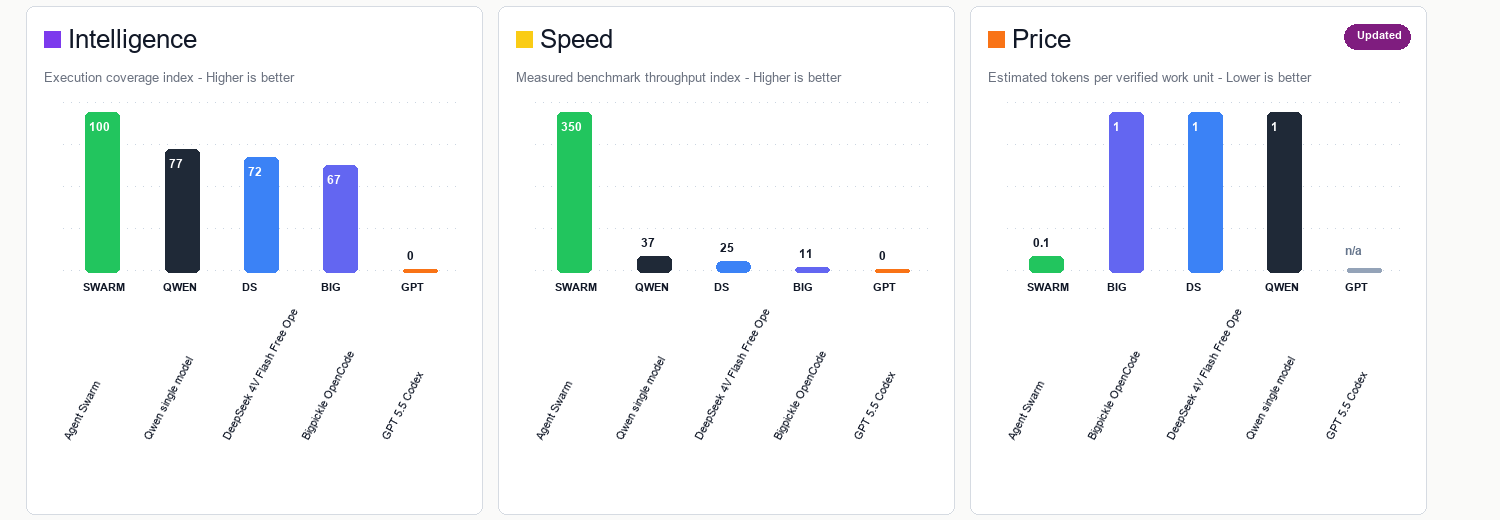
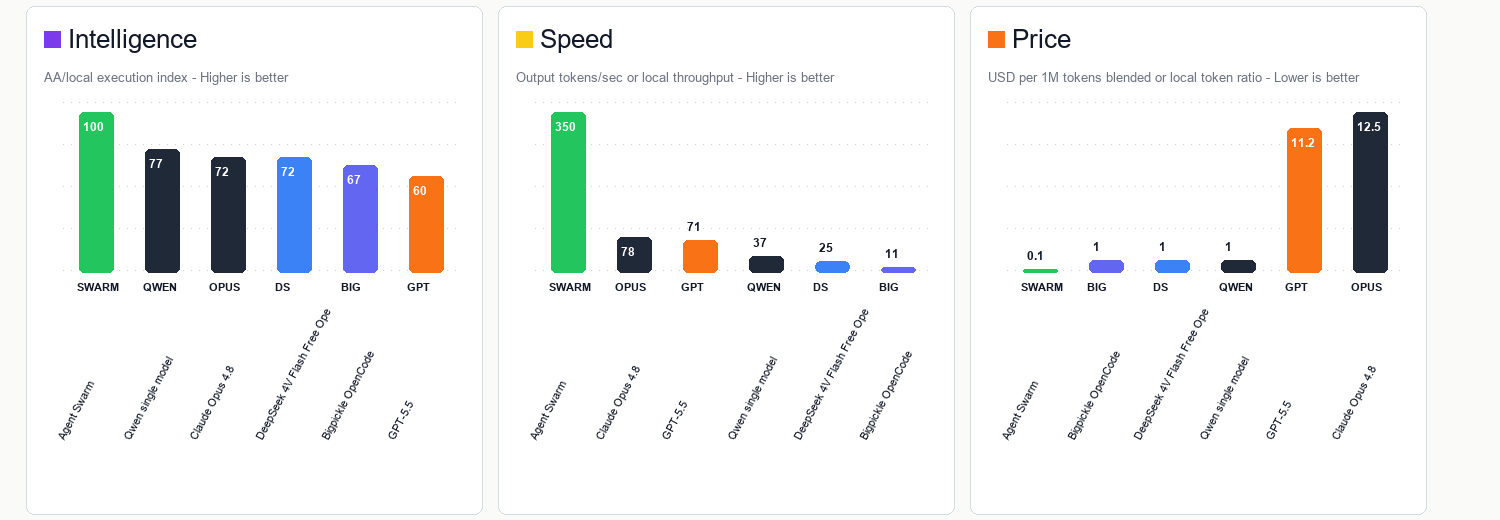
Refresh benchmark comparison charts

diff --git a/scripts/run_aggressive_cli_benchmark.py b/scripts/run_aggressive_cli_benchmark.py
@@ -36,6 +36,31 @@ from swarm.providers.base import Message
 from swarm.providers.factory import ProviderFactory
 
 
+PUBLIC_BENCHMARK_POINTS = [
+    {
+        "name": "Claude Opus 4.8",
+        "short": "OPUS",
+        "color": (31, 41, 55),
+        "intelligence": 72.0,
+        "speed": 78.5,
+        "price": 12.5,
+        "swe_bench_pro": 69.2,
+        "terminal_bench": 74.6,
+        "coding": 71.9,
+    },
+    {
+        "name": "GPT-5.5",
+        "short": "GPT",
+        "color": (249, 115, 22),
+        "intelligence": 60.2,
+        "speed": 70.8,
+        "price": 11.25,
+        "swe_bench_pro": 58.6,
+        "terminal_bench": 83.4,
+        "coding": 71.0,
+    },
+]
+
 COMPLEX_WORK_PROMPT = (
     "Complex benchmark work: design a secure multi-agent job finder and applier that scrapes listings, "
     "uses temporary vision for screenshots, routes coding/security/browser agents to the best providers, "
@@ -1018,10 +1043,12 @@ def render_benchmark_charts(report: dict, output_dir: Path) -> dict:
         "swarm_vs_single": output_dir / "benchmark_swarm_vs_single.png",
         "requested_models": output_dir / "benchmark_requested_models.png",
         "cli_matrix": output_dir / "benchmark_cli_matrix.png",
+        "coding_models": output_dir / "benchmark_coding_models.png",
     }
     render_swarm_vs_single_chart(report, charts["swarm_vs_single"])
     render_requested_models_chart(report, charts["requested_models"])
     render_cli_matrix_chart(report, charts["cli_matrix"])
+    render_coding_models_chart(report, charts["coding_models"])
     return {key: str(path) for key, path in charts.items()}
 
 
@@ -1060,12 +1087,12 @@ def render_swarm_vs_single_chart(report: dict, path: Path) -> None:
     draw = ImageDraw.Draw(image)
     points = build_comparison_card_points(report)
     cards = [
-        ((26, 6, 482, 514), "Intelligence", "Execution coverage index - Higher is better", "intelligence", True, (124, 58, 237)),
-        ((498, 6, 954, 514), "Speed", "Measured benchmark throughput index - Higher is better", "speed", True, (250, 204, 21)),
-        ((970, 6, 1426, 514), "Price", "Estimated tokens per verified work unit - Lower is better", "price", False, (249, 115, 22)),
+        ((26, 6, 482, 514), "Intelligence", "AA/local execution index - Higher is better", "intelligence", True, (124, 58, 237)),
+        ((498, 6, 954, 514), "Speed", "Output tokens/sec or local throughput - Higher is better", "speed", True, (250, 204, 21)),
+        ((970, 6, 1426, 514), "Price", "USD per 1M tokens blended or local token ratio - Lower is better", "price", False, (249, 115, 22)),
     ]
-    for idx, (box, title, subtitle, metric, higher_better, accent) in enumerate(cards):
-        draw_metric_card(image, draw, box, title, subtitle, metric, points, higher_better, accent, updated=(idx == 2))
+    for box, title, subtitle, metric, higher_better, accent in cards:
+        draw_metric_card(image, draw, box, title, subtitle, metric, points, higher_better, accent)
     image.save(path)
 
 
@@ -1088,8 +1115,10 @@ def build_comparison_card_points(report: dict) -> list[dict]:
             "intelligence": int(comparison.get("swarm_execution_coverage_score") or swarm.get("score") or 100),
             "speed": int(min(350, round(work_units / swarm_elapsed))),
             "price": max(0.1, swarm_price),
+            "coding": int(comparison.get("swarm_execution_coverage_score") or swarm.get("score") or 100),
         }
     ]
+    points.extend(PUBLIC_BENCHMARK_POINTS)
 
     palette = [
         (99, 102, 241),
@@ -1107,7 +1136,11 @@ def build_comparison_card_points(report: dict) -> list[dict]:
         speed = int(round((chars / 4) / elapsed)) if elapsed > 0 and chars > 0 and single.get("ok") else 0
         price = 1.0 if single.get("ok") else None
         name = case.get("display_name", case.get("case_id", "single"))
-        if "GPT 5.5" in name and not single.get("ok"):
+        if "GPT 5.5" in name:
+            continue
+        if "Claude Opus 4.8" in name:
+            continue
+        if not single.get("ok"):
             price = None
         points.append(
             {
@@ -1117,6 +1150,7 @@ def build_comparison_card_points(report: dict) -> list[dict]:
                 "intelligence": score,
                 "speed": speed,
                 "price": price,
+                "coding": score,
             }
         )
     return points
@@ -1150,16 +1184,12 @@ def draw_metric_card(
     points: list[dict],
     higher_better: bool,
     accent: tuple[int, int, int],
-    updated: bool = False,
 ) -> None:
     left, top, right, bottom = box
     draw.rounded_rectangle(box, radius=8, fill=(255, 255, 255), outline=(214, 219, 226), width=1)
     draw.rectangle((left + 18, top + 25, left + 34, top + 41), fill=accent)
     draw.text((left + 42, top + 18), title, fill=(17, 24, 39), font=chart_font(26))
     draw.text((left + 18, top + 64), subtitle, fill=(107, 114, 128), font=chart_font(13))
-    if updated:
-        draw.rounded_rectangle((right - 82, top + 18, right - 16, top + 43), radius=12, fill=(127, 29, 127))
-        draw.text((right - 69, top + 23), "Updated", fill=(255, 255, 255), font=chart_font(11, True))
 
     values = [point.get(metric) for point in points if isinstance(point.get(metric), (int, float))]
     max_value = max(values) if values else 1
@@ -1217,6 +1247,20 @@ def draw_rotated_text(image: Image.Image, xy: tuple[int, int], text: str, font, 
     label_draw.text((0, 0), text[:26], fill=fill + (255,), font=font)
     rotated = label.rotate(62, expand=True, resample=Image.Resampling.BICUBIC)
     image.paste(rotated, xy, rotated)
+
+
+def render_coding_models_chart(report: dict, path: Path) -> None:
+    image = Image.new("RGB", (1500, 520), (250, 250, 249))
+    draw = ImageDraw.Draw(image)
+    points = build_comparison_card_points(report)
+    cards = [
+        ((26, 6, 482, 514), "SWE-Bench Pro", "Agentic coding pass rate - Higher is better", "swe_bench_pro", True, (124, 58, 237)),
+        ((498, 6, 954, 514), "Terminal-Bench", "Multi-turn terminal coding reward - Higher is better", "terminal_bench", True, (250, 204, 21)),
+        ((970, 6, 1426, 514), "Coding", "Coding score plus local swarm execution coverage", "coding", True, (249, 115, 22)),
+    ]
+    for box, title, subtitle, metric, higher_better, accent in cards:
+        draw_metric_card(image, draw, box, title, subtitle, metric, points, higher_better, accent)
+    image.save(path)
 
 
 def render_requested_models_chart(report: dict, path: Path) -> None:

diff --git a/tests/test_aggressive_cli_benchmark.py b/tests/test_aggressive_cli_benchmark.py
@@ -136,5 +136,5 @@ def test_benchmark_chart_renderer_writes_pngs(tmp_path):
 
     charts = render_benchmark_charts(report, tmp_path)
 
-    assert set(charts) == {"swarm_vs_single", "requested_models", "cli_matrix"}
+    assert set(charts) == {"swarm_vs_single", "requested_models", "cli_matrix", "coding_models"}
     assert all(Path(path).exists() for path in charts.values())

diff --git a/README.md b/README.md
@@ -20,11 +20,13 @@ The preview above is embedded directly in the README from `examples/agent_swarm_
 
 ## Benchmarks
 
-These benchmark images are generated by `scripts/run_aggressive_cli_benchmark.py` from the live benchmark JSON. The scoring shown here is execution coverage: it rewards actual council voting, provider routing, sub-agent planning, temporary vision routing, verification, and master review, not just a single text answer.
+These benchmark images are generated by `scripts/run_aggressive_cli_benchmark.py` from the live benchmark JSON. The scoring shown here is execution coverage: it rewards actual council voting, provider routing, sub-agent planning, temporary vision routing, verification, and master review, not just a single text answer. Public GPT 5.5 and Claude Opus 4.8 intelligence, speed, price, and coding points are refreshed from current public model pages.
 
 The requested-model panel covers Bigpickle inside OpenCode, GPT 5.5 direct API availability without relying on the Codex CLI, DeepSeek 4V Flash Free inside OpenCode, and a native Qwen single-model run.
 
 ![Agent Swarm vs single models](./examples/benchmark_swarm_vs_single.png)
+
+![Coding model benchmarks](./examples/benchmark_coding_models.png)
 
 ![Requested model benchmarks](./examples/benchmark_requested_models.png)
 